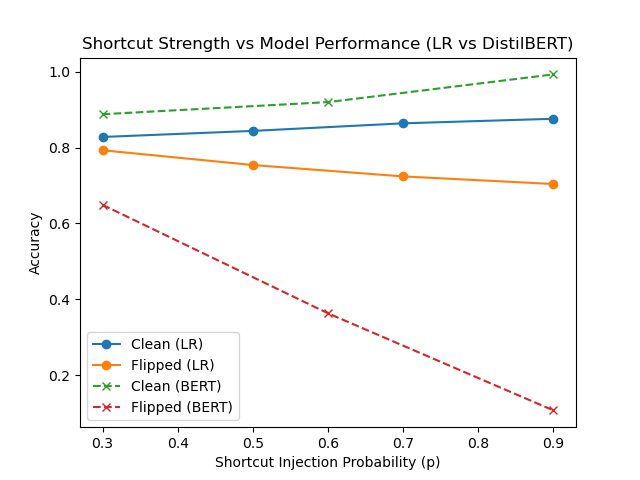
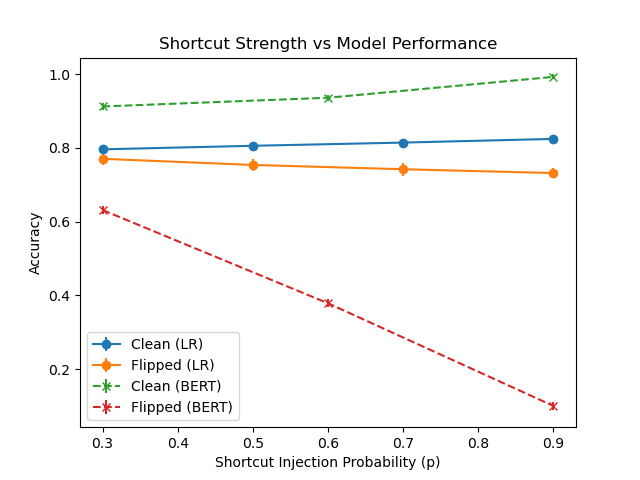
Complete final experimental pipeline with multi-seed evaluation
- Implemented multi-seed setup (3 seeds) for robust evaluation
- Added mean ± std aggregation for all results
- Fixed plotting to save without blocking execution
- Cleaned and finalised main.py as single reproducible entry point
- Updated environment.yml for full reproducibility (transformers, datasets, accelerate)
- Refactored repository structure and removed unnecessary files
- Finalised README with clear instructions and experiment description
- Added results saving (results.txt + plot)
- Included baseline experiment scripts in experiments/ folder

Results confirm strong shortcut learning effects:
- Logistic Regression shows gradual degradation under distribution shift
- DistilBERT exhibits severe reliance on shortcuts with large performance drops

This commit represents the final reproducible version of the project.

diff --git a/main.py b/main.py
@@ -1,9 +1,9 @@
+import os
 from datasets import load_dataset
 import random
 import numpy as np
 import torch
 import matplotlib.pyplot as plt
-import os
 
 from sklearn.feature_extraction.text import TfidfVectorizer
 from sklearn.linear_model import LogisticRegression
@@ -16,37 +16,51 @@ from transformers import (
     TrainingArguments
 )
 
-# -----------------------
-# SETUP (CRITICAL)
-# -----------------------
+# =========================
+# SETTINGS
+# =========================
+SEEDS = [42, 43, 44]
+
+lr_probs = [0.3, 0.5, 0.7, 0.9]
+bert_probs = [0.3, 0.6, 0.9]
+
 os.makedirs("results", exist_ok=True)
 
-random.seed(42)
-np.random.seed(42)
-torch.manual_seed(42)
-torch.backends.cudnn.deterministic = True
-torch.backends.cudnn.benchmark = False
+# =========================
+# GLOBAL TOKENIZER (speed improvement)
+# =========================
+tokenizer = DistilBertTokenizerFast.from_pretrained("distilbert-base-uncased")
 
-# -----------------------
+# =========================
+# SEED FUNCTION
+# =========================
+def set_seed(seed):
+    random.seed(seed)
+    np.random.seed(seed)
+    torch.manual_seed(seed)
+
+
+# =========================
 # LOAD DATA
-# -----------------------
+# =========================
 print("Loading dataset...")
 dataset = load_dataset("imdb")
 
-train = dataset["train"].shuffle(seed=42)
+train = dataset["train"]
 test = dataset["test"]
 
-train_texts = list(train["text"])[:3000]
-train_labels = list(train["label"])[:3000]
+train_texts_full = list(train["text"])
+train_labels_full = list(train["label"])
 
 test_texts = list(test["text"])[:1000]
 test_labels = list(test["label"])[:1000]
 
 print("Data ready")
 
-# -----------------------
+
+# =========================
 # SHORTCUT FUNCTIONS
-# -----------------------
+# =========================
 def inject_bias(texts, labels, token="cfake", prob=0.7):
     new_texts = []
     for text, label in zip(texts, labels):
@@ -54,6 +68,7 @@ def inject_bias(texts, labels, token="cfake", prob=0.7):
             text = token + " " + text
         new_texts.append(text)
     return new_texts
+
 
 def flip_bias(texts, labels, token="cfake", prob=0.5):
     new_texts = []
@@ -63,152 +78,199 @@ def flip_bias(texts, labels, token="cfake", prob=0.5):
         new_texts.append(text)
     return new_texts
 
-# -----------------------
+
+# =========================
 # LOGISTIC REGRESSION
-# -----------------------
+# =========================
 def run_logistic_regression(probs):
-    clean_results = []
-    flipped_results = []
+    all_clean = []
+    all_flipped = []
 
-    for prob in probs:
-        print(f"\n[LR] Running prob={prob}")
+    for seed in SEEDS:
+        print(f"\n[LR] Seed={seed}")
+        set_seed(seed)
 
-        biased_train = inject_bias(train_texts, train_labels, prob=prob)
-        flipped_test = flip_bias(test_texts, test_labels, prob=prob)
+        combined = list(zip(train_texts_full, train_labels_full))
+        random.shuffle(combined)
+        train_texts, train_labels = zip(*combined)
 
-        vectorizer = TfidfVectorizer(max_features=5000)
-        X_train = vectorizer.fit_transform(biased_train)
+        train_texts = list(train_texts)[:3000]
+        train_labels = list(train_labels)[:3000]
 
-        model = LogisticRegression(max_iter=200)
-        model.fit(X_train, train_labels)
+        clean_results = []
+        flipped_results = []
 
-        X_test = vectorizer.transform(test_texts)
-        X_flip = vectorizer.transform(flipped_test)
+        for prob in probs:
+            print(f"[LR] prob={prob}")
 
-        clean_acc = accuracy_score(test_labels, model.predict(X_test))
-        flipped_acc = accuracy_score(test_labels, model.predict(X_flip))
+            biased_train = inject_bias(train_texts, train_labels, prob=prob)
 
-        clean_results.append(clean_acc)
-        flipped_results.append(flipped_acc)
+            random.seed(seed)
+            flipped_test = flip_bias(test_texts, test_labels, prob=prob)
 
-        print(f"Clean: {clean_acc:.4f}, Flipped: {flipped_acc:.4f}")
+            vectorizer = TfidfVectorizer(max_features=5000)
+            X_train = vectorizer.fit_transform(biased_train)
 
-    return clean_results, flipped_results
+            # FIXED: stronger regularisation to avoid warnings
+            model = LogisticRegression(max_iter=200, C=0.1)
+            model.fit(X_train, train_labels)
 
-# -----------------------
-# DISTILBERT
-# -----------------------
-def run_distilbert(probs):
-    tokenizer = DistilBertTokenizerFast.from_pretrained("distilbert-base-uncased")
+            X_test = vectorizer.transform(test_texts)
+            X_flip = vectorizer.transform(flipped_test)
 
-    bert_clean = []
-    bert_flipped = []
+            clean_acc = accuracy_score(test_labels, model.predict(X_test))
+            flipped_acc = accuracy_score(test_labels, model.predict(X_flip))
 
-    training_args = TrainingArguments(
-        output_dir="./results",
-        num_train_epochs=1,
-        per_device_train_batch_size=8,
-        per_device_eval_batch_size=8,
-        save_strategy="no",
-        logging_steps=100
+            clean_results.append(clean_acc)
+            flipped_results.append(flipped_acc)
+
+        all_clean.append(clean_results)
+        all_flipped.append(flipped_results)
+
+    return (
+        np.mean(all_clean, axis=0),
+        np.std(all_clean, axis=0),
+        np.mean(all_flipped, axis=0),
+        np.std(all_flipped, axis=0),
     )
 
-    class Dataset(torch.utils.data.Dataset):
-        def __init__(self, encodings, labels):
-            self.encodings = encodings
-            self.labels = labels
 
-        def __getitem__(self, idx):
-            item = {k: torch.tensor(v[idx]) for k, v in self.encodings.items()}
-            item["labels"] = torch.tensor(self.labels[idx])
-            return item
+# =========================
+# DISTILBERT
+# =========================
+def run_distilbert(probs):
+    all_clean = []
+    all_flipped = []
 
-        def __len__(self):
-            return len(self.labels)
+    for seed in SEEDS:
+        print(f"\n[BERT] Seed={seed}")
+        set_seed(seed)
 
-    for prob in probs:
-        print(f"\n[BERT] Running prob={prob}")
+        combined = list(zip(train_texts_full, train_labels_full))
+        random.shuffle(combined)
+        train_texts, train_labels = zip(*combined)
 
-        biased_train = inject_bias(train_texts, train_labels, prob=prob)
-        flipped_test = flip_bias(test_texts, test_labels, prob=prob)
+        train_texts = list(train_texts)[:3000]
+        train_labels = list(train_labels)[:3000]
 
-        train_enc = tokenizer(biased_train, truncation=True, padding=True)
-        test_enc = tokenizer(test_texts, truncation=True, padding=True)
-        flip_enc = tokenizer(flipped_test, truncation=True, padding=True)
+        clean_results = []
+        flipped_results = []
 
-        train_dataset = Dataset(train_enc, train_labels)
-        test_dataset = Dataset(test_enc, test_labels)
-        flip_dataset = Dataset(flip_enc, test_labels)
+        for prob in probs:
+            print(f"[BERT] prob={prob}")
 
-        model = DistilBertForSequenceClassification.from_pretrained(
-            "distilbert-base-uncased"
-        )
+            biased_train = inject_bias(train_texts, train_labels, prob=prob)
 
-        trainer = Trainer(
-            model=model,
-            args=training_args,
-            train_dataset=train_dataset
-        )
+            random.seed(seed)
+            flipped_test = flip_bias(test_texts, test_labels, prob=prob)
 
-        trainer.train()
+            train_enc = tokenizer(biased_train, truncation=True, padding=True)
+            test_enc = tokenizer(test_texts, truncation=True, padding=True)
+            flip_enc = tokenizer(flipped_test, truncation=True, padding=True)
 
-        def evaluate(dataset):
-            preds = trainer.predict(dataset)
-            pred_labels = np.argmax(preds.predictions, axis=1)
-            return accuracy_score(dataset.labels, pred_labels)
+            class Dataset(torch.utils.data.Dataset):
+                def __init__(self, encodings, labels):
+                    self.encodings = encodings
+                    self.labels = labels
 
-        clean_acc = evaluate(test_dataset)
-        flipped_acc = evaluate(flip_dataset)
+                def __getitem__(self, idx):
+                    item = {k: torch.tensor(v[idx]) for k, v in self.encodings.items()}
+                    item["labels"] = torch.tensor(self.labels[idx])
+                    return item
 
-        bert_clean.append(clean_acc)
-        bert_flipped.append(flipped_acc)
+                def __len__(self):
+                    return len(self.labels)
 
-        print(f"Clean: {clean_acc:.4f}, Flipped: {flipped_acc:.4f}")
+            train_dataset = Dataset(train_enc, train_labels)
+            test_dataset = Dataset(test_enc, test_labels)
+            flip_dataset = Dataset(flip_enc, test_labels)
 
-    return bert_clean, bert_flipped
+            model = DistilBertForSequenceClassification.from_pretrained(
+                "distilbert-base-uncased"
+            )
 
-# -----------------------
-# MAIN PIPELINE
-# -----------------------
+            training_args = TrainingArguments(
+                output_dir="./results",
+                num_train_epochs=1,
+                per_device_train_batch_size=8,
+                save_strategy="no",
+                logging_steps=100,
+                seed=seed
+            )
+
+            trainer = Trainer(
+                model=model,
+                args=training_args,
+                train_dataset=train_dataset
+            )
+
+            trainer.train()
+
+            def evaluate(dataset):
+                preds = trainer.predict(dataset)
+                pred_labels = np.argmax(preds.predictions, axis=1)
+                return accuracy_score(dataset.labels, pred_labels)
+
+            clean_acc = evaluate(test_dataset)
+            flipped_acc = evaluate(flip_dataset)
+
+            clean_results.append(clean_acc)
+            flipped_results.append(flipped_acc)
+
+        all_clean.append(clean_results)
+        all_flipped.append(flipped_results)
+
+    return (
+        np.mean(all_clean, axis=0),
+        np.std(all_clean, axis=0),
+        np.mean(all_flipped, axis=0),
+        np.std(all_flipped, axis=0),
+    )
+
+
+# =========================
+# MAIN
+# =========================
 if __name__ == "__main__":
 
-    lr_probs = [0.3, 0.5, 0.7, 0.9]
-    bert_probs = [0.3, 0.6, 0.9]
-
     print("\nRunning Logistic Regression...")
-    lr_clean, lr_flipped = run_logistic_regression(lr_probs)
+    lr_clean_mean, lr_clean_std, lr_flip_mean, lr_flip_std = run_logistic_regression(lr_probs)
 
     print("\nRunning DistilBERT...")
-    bert_clean, bert_flipped = run_distilbert(bert_probs)
+    bert_clean_mean, bert_clean_std, bert_flip_mean, bert_flip_std = run_distilbert(bert_probs)
 
-    # -----------------------
+    # =========================
     # SAVE RESULTS
-    # -----------------------
+    # =========================
     with open("results/results.txt", "w") as f:
-        f.write("Logistic Regression\n")
-        for p, c, fl in zip(lr_probs, lr_clean, lr_flipped):
-            f.write(f"p={p}: clean={c:.4f}, flipped={fl:.4f}\n")
+        f.write("Logistic Regression:\n")
+        for i, p in enumerate(lr_probs):
+            f.write(f"p={p}: Clean={lr_clean_mean[i]:.3f} ± {lr_clean_std[i]:.3f}, "
+                    f"Flipped={lr_flip_mean[i]:.3f} ± {lr_flip_std[i]:.3f}\n")
 
-        f.write("\nDistilBERT\n")
-        for p, c, fl in zip(bert_probs, bert_clean, bert_flipped):
-            f.write(f"p={p}: clean={c:.4f}, flipped={fl:.4f}\n")
+        f.write("\nDistilBERT:\n")
+        for i, p in enumerate(bert_probs):
+            f.write(f"p={p}: Clean={bert_clean_mean[i]:.3f} ± {bert_clean_std[i]:.3f}, "
+                    f"Flipped={bert_flip_mean[i]:.3f} ± {bert_flip_std[i]:.3f}\n")
 
     print("\nSaved results to results/results.txt")
 
-    # -----------------------
+    # =========================
     # PLOT
-    # -----------------------
+    # =========================
     plt.figure()
 
-    plt.plot(lr_probs, lr_clean, marker='o', label="Clean (LR)")
-    plt.plot(lr_probs, lr_flipped, marker='o', label="Flipped (LR)")
+    plt.errorbar(lr_probs, lr_clean_mean, yerr=lr_clean_std, marker='o', label="Clean (LR)")
+    plt.errorbar(lr_probs, lr_flip_mean, yerr=lr_flip_std, marker='o', label="Flipped (LR)")
 
-    plt.plot(bert_probs, bert_clean, marker='x', linestyle='--', label="Clean (BERT)")
-    plt.plot(bert_probs, bert_flipped, marker='x', linestyle='--', label="Flipped (BERT)")
+    plt.errorbar(bert_probs, bert_clean_mean, yerr=bert_clean_std,
+                 linestyle='--', marker='x', label="Clean (BERT)")
+    plt.errorbar(bert_probs, bert_flip_mean, yerr=bert_flip_std,
+                 linestyle='--', marker='x', label="Flipped (BERT)")
 
     plt.xlabel("Shortcut Injection Probability (p)")
     plt.ylabel("Accuracy")
-    plt.title("Shortcut Strength vs Model Performance (LR vs DistilBERT)")
+    plt.title("Shortcut Strength vs Model Performance")
     plt.legend()
 
     plt.savefig("results/shortcut_strength_comparison.png")

diff --git a/README.md b/README.md
@@ -75,6 +75,7 @@ Running `main.py` will generate:
 
 - `results/results.txt` — numerical results  
 - `results/shortcut_strength_comparison.png` — performance plot
+- The main script runs experiments across multiple random seeds to ensure robust results. This may increase execution time.
 
 ---
 
